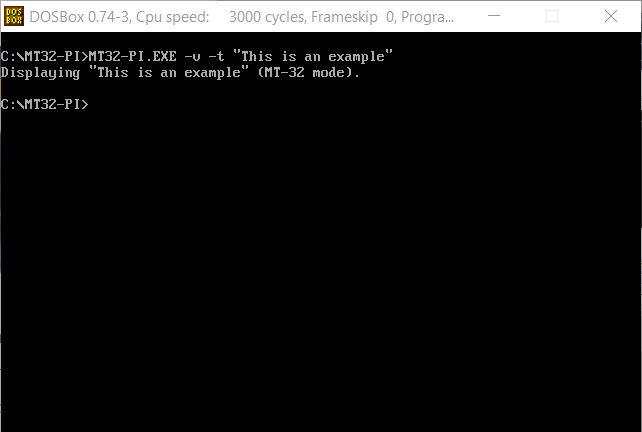
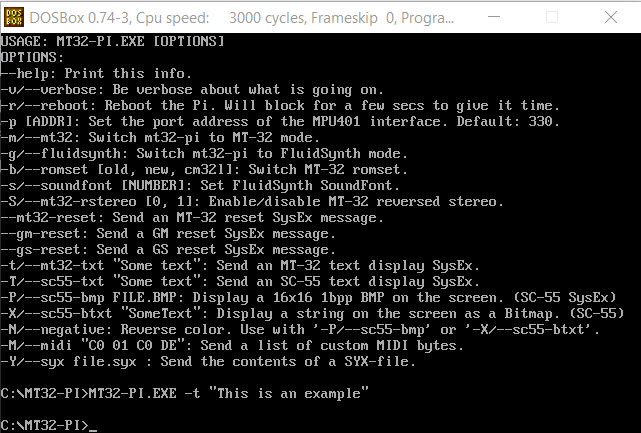
Updated documentation

diff --git a/documentation/getting_started.md b/documentation/getting_started.md
@@ -5,6 +5,9 @@ Before starting on this adventure, even with a ready-built unit I suggest at lea
 
 - [1> Getting started](#1-getting-started)
 - [2> ScummVM](#2-scummvm)
+- [2> DOSBox](#3-dosbox)
+  - [3.1> Example game](#31-example-game)
+  - [3.2> MT32-PI Control](32-mt32-pi-control)
 
 # 2> ScummVM
 [ScummVM](https://www.scummvm.org/) is by far the easiest way to get started, and while it provides its own form of MT-32 emulation we can reconfigure it to output the MIDI instructions out to external devices instead by the use of a suitable *USB MIDI Interface* (the one I recommend is *Roland UM-ONE Mk2*). I'm not entirely convinced that there's all that much to be gained from swapping out one form of emulation over another, but the exact same instructions can be used to hook up a real MT-32 to ScummVM and for that reason it is an excellent way of testing that the MT32-PI functions as expected.
@@ -18,3 +21,59 @@ In order to make ScummVM work with an external MIDI module, we'll need to change
 ![](https://github.com/tebl/BulkyMIDI-32/raw/main/gallery/scummvm_mt32_002.png)
 
 Second is the *Audio*-tab, here we need to select the same external interface as your *Preferred device*. Some games, in particular some of the Sierra games will attempt to use the MT-32 for both music as well as sound effects, but this varies from title to title with most of the later games preferring a regular sound card for effects. Note that most of the games will have an animated intro sequence only using standard sound card, but the music will start to play either in the menu or once you're into the game. The MT32-PI allows you to switch between various *romsets* in *MT32*-mode by using the *ROM*-button, for the games that utilize the MT-32 for sound effects you'll usually get more authentic audio using the earliest version. 
+
+# 3> DOSBox
+[DOSBox](https://www.dosbox.com/) is another alternative for emulating IBM PC games on your modern computer, just download the relevant version for your operating system and install it. Compared to [ScummVM](#2-scummvm) it's quite a different beast altogether, allowing you to emulate a mostly compatible version of the classic DOS environment - meaning that most of the warts are still included. The emulator has a lot of options available for tailoring it exactly to fit your specific requirements, but everything beyond the basics on how to get it working with a real MT-32 or the MT32-PI will be left up to you to figure out.
+
+However, the first task that we'll need to accomplish is to add a directory on your modern computer that will serve as the C: drive from within *DOSBox*. This is done by editing the configuration-file, when using MS Windows you'll find that a shortcut to editing the configuration has already been added to your start menu. The format of the file is similar to the *INI*-files of the days before MS Windows 95 became a thing, every configuration option is placed into a section with the section name listed in brackets. The options I've included are just so that you can navigate to the expected sections, meaning it's not a complete configuration by itself so you'll need to insert the values into the existing configuration. At the bottom you'll find this section, here I'm just assigning the part *D:\DOSBOX* from my modern computer to serve as the C-drive.
+
+```
+[autoexec]
+mount C D:\DOSBOX
+C:
+```
+
+The next step is starting up DOSBox with the *USB MIDI Interface* already plugged in. In order to complete the configuration we'll need to figure out the logical ID number that your operating system should already have assigned to your device.
+
+![](https://github.com/tebl/BulkyMIDI-32/raw/main/gallery/dosbox_mt32_001.png)
+```
+MIXER /LISTMIDI
+```
+The command listed should give you a listing of all recognized MIDI devices, the number listed at the start will be the one we're looking for. My device is a *Roland UM-ONE* and it was detected as device 1, therefore I'll be updating the same configuration file we edited earlier to reflect this.
+```
+[midi]
+midiconfig=1
+```
+
+From this point on, we'll need to configure the game or application that we want to use so that it knows what it should look for - this varies from game to game, but usually there's a setup or install utility that takes care of this for you.
+
+## 3.1> Example game
+As already mentioned, DOSBox allows you to run DOS on modern computer with all the features and hurdles that entails. As we're emulating a DOS-based computer instead of emulating a game-engine, we need to configure it using the applications included with that specific version of it. Believing that examples make everything better, I've chosen to use the **VGA**-version of *Leisure Suit Larry* as that very example.
+
+![](https://github.com/tebl/BulkyMIDI-32/raw/main/gallery/dosbox_mt32_010.png)
+
+I've already placed the files belonging to the game in the folder *D:\DOSBOX\Games\LSL1*, remembering that this is part of the folder that will be mounted as your C-drive within *DOSBox* (depending on your organizational ability or operating system, change to match). Starting up *DOSBox*, navigate to the folder and run the install utility as mentioned in the manual included with your original copy of the game.
+
+![](https://github.com/tebl/BulkyMIDI-32/raw/main/gallery/dosbox_mt32_011.png)
+
+Move up to the entry specifying the device used for *Music*, hit enter and select the option for *"Roland MT-32, MT-100, LAPC-I, CM-32L, or CM-64"*. When satisfied, just *"Accept these choices and save configuration"* and we'll be ready to start playing the game. With that done you should be ready to start the game, just run *"LSL1VGA.BAT"* to start it up.
+
+![](https://github.com/tebl/BulkyMIDI-32/raw/main/gallery/dosbox_mt32_012.png)
+```
+LSL1VGA.BAT
+```
+![](https://github.com/tebl/BulkyMIDI-32/raw/main/gallery/dosbox_mt32_013.png)
+
+Other games will normally have its own way of presenting and updating these settings, so it may take some trial and error to find the one that works for you. For the most part, the worst thing that'll happen is that audio don't work or the game refuses to start. Just go through the process again and try something else.
+
+## 3.2> MT32-PI Control
+The MT32-PI has extended support for interpreting a selection of MIDI instructions not normally understood by the real Roland MT-32, these can be sent using simple DOS commands to the device in order to control the extra features that it brings to the table. This is provided as a separate project named [mt32-pi-control](https://github.com/gmcn42/mt32-pi-control), it is installed simply by downloading and extracting the DOS version of the [latest release](https://github.com/gmcn42/mt32-pi-control/releases).
+
+I've already placed the files belonging to the game in the folder *D:\DOSBOX\MT32-PI*, remembering that this is part of the folder that will be mounted as your C-drive within *DOSBox* (depending on your organizational ability or operating system, change to match). You can test that it is working by telling to put some text on the screen.
+
+![](https://github.com/tebl/BulkyMIDI-32/raw/main/gallery/dosbox_mt32_020.png)
+```
+MT32-PI.EXE -v -t "This is an example"
+```
+
+This is a very simple example, but the main purpose is of it is that by using the utility you can have the MT32-PI switch to the correct mode and relevant settings before the application is started. All of this can be put into a simple batch file, or you can add the commands to the *"autoexec"*-section of the DOSBox so that everything is set up as expected every time without manually clicking around on the front panel of the device.
